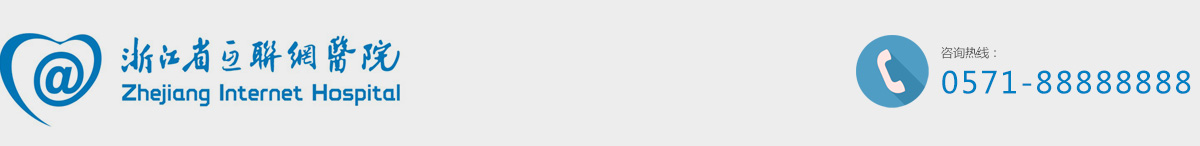
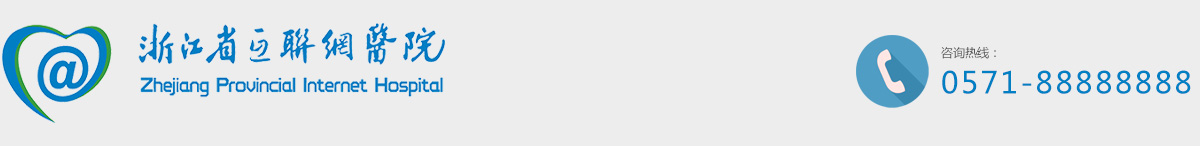
首页适配980px

Changed region(s): [[0.0, 0.1644, 0.37, 0.8493]]

diff --git a/index.html b/index.html
@@ -8,14 +8,13 @@
 	<link rel="shortcut icon" type="image/x-icon" href="theme/default/images/i.ico" media="screen" />
 	<script language="javascript" src="theme/javascript/jquery.js" type="text/javascript"></script>
 	<!--[if lt IE 9]>
-		<script type="text/javascript" src="theme/javascript/h5.js"></script>
 		<script type="text/javascript" src="theme/javascript/css3-media.js"></script>
 	<![endif]-->	
 	<link rel="stylesheet" type="text/css" href="theme/default/css/reset.css">
 	<link rel="stylesheet" type="text/css" href="theme/default/css/style.last.css">	
 </head>
 <body>
-<div id="head"></div>
+<div id="head"><img src='theme/default/images/top.jpg'></div>
  <!-- 大图滚动banner -->
 <div id="banner" class="slideBox">
 	<div id="slider-wrapper" class="index_post ption_r">
@@ -31,8 +30,8 @@
 
 	<!--入口 -->
 	<div class="entrance mt">
-	  <a href="" class="a_l"></a>
-	  <a href="" class="a_r"></a>
+	  <a href="" class="a_l"><img src='theme/default/images/a_l.jpg'></a>
+	  <a href="" class="a_r"><img src='theme/default/images/a_r.jpg'></a>
 	</div>
 
 	<div class="c1 mt">
@@ -161,26 +160,25 @@
 	<!--排班 -->
 	<div class="mt">
 	  <h3>排班表<a href="">查看全部排班</a></h3>
-	  <table class='grid01' cellpadding='0' cellspacing='0'>
-	  	<tr class='head'>
-	  		<td>星期一</td>
-			<td>星期二</td>
-			<td>星期三</td>
-			<td>星期四</td>
-			<td>星期五</td>
-			<td>星期六</td>
+	  <table class="grid01" cellpadding="0" cellspacing="0">
+	  	<tbody><tr class="head">
+	  		<td>1月16日 8:00-12:00</td>
+			<td>9:00-11:00</td>
+			<td>12:00-16:00</td>
+			<td>13:00-15:00</td>
+			<td>17:00-19:00</td>
+			<td>16:00-20:00</td>
 			
 	  	</tr>
 	  	<tr>
-	  		<td>张三<span>1111</span>张三<span>1111</span></td>
-			<td>星期二</td>
-			<td>星期三</td>
-			<td>星期四</td>
-			<td>星期五</td>
-			<td>星期六</td>
-			
+	  		<td>张瑛<span>（中医）</span>费保莹<span>（消化-专家）</span>刘兰英<span>（心理咨询）</span>徐长福<span>（心内）</span>余志红<span>（肿瘤）</span>王一枫<span>（皮肤）</span></td>
+			<td> </td>
+			<td>张瑛<span>（中医）</span>许先荣<span>（呼吸-专家）</span>张滢<span>（记忆减退）</span>盛洋<span>（心内）</span>汪亚群<span>（康复）</span>沈斌<span>（皮肤）</span></td>
+			<td> </td>
+			<td> </td>
+			<td>张瑛<span>（消化）</span>芦丹<span>（康复）</span></td>
 	  	</tr>
-	  </table>
+	  </tbody></table>
 	</div>	
 
 	

diff --git a/theme/default/css/style.last.css b/theme/default/css/style.last.css
@@ -5,7 +5,7 @@ a:hover{color:#1c6f9b}
 body,html{background:#ededed;overflow-x: hidden;}
 .setover{white-space:nowrap;text-overflow: ellipsis;overflow: hidden;}
 .main{width:1200px;margin:0 auto;}
-#head{height:146px;background:url(../images/top.jpg) center 0 no-repeat;}
+#head{height:146px;text-align:center/*background:url(../images/top.jpg) center 0 no-repeat;*/}
 /* banner图片切换 */
 #slider-wrapper{ width: 1980px;  margin:0 auto;margin-left: -990px;left: 50%;position: relative;}
 #slider{position:relative; width:1200px; height:246px;}
@@ -25,8 +25,8 @@ a.nivo-prevNav{left:15px;}
 .clear{clear:both;}
 
 .mt{margin-top:16px;overflow:hidden}
-a.a_l{float:left;width:592px;height:93px;background:url(../images/a_l.jpg) no-repeat;}
-a.a_r{float:right;width:592px;height:93px;background:url(../images/a_r.jpg) no-repeat;}
+a.a_l{float:left;/*width:592px;height:93px;background:url(../images/a_l.jpg) no-repeat;*/}
+a.a_r{float:right;/*width:592px;height:93px;background:url(../images/a_r.jpg) no-repeat;*/}
 /*
 a.a_r:hover,a.a_l:hover{-webkit-animation-name:bounceIn;animation-name:bounceIn;-webkit-animation-duration:.75s;animation-duration:.75s}
 */
@@ -244,4 +244,25 @@ span.pageStatus{padding-right:20px}
 /*=== Custom Slider Styles ===*/
 /*============================*/
 .article_wrap p{line-height:1.5!important;color:#333}
-@media screen and (max-width:1200px){#head,.main {zoom:.8}}
+@media screen and (max-width:1200px){
+/* 980 */
+#head img,.main{width:980px}
+#head{height:120px}
+a.a_r img,a.a_l img{width:482px}
+.c1{zoom:0.817}
+.picMarquee-left .bd ul li .title{width:260px;  }
+.picMarquee-left{ width:940px;padding-right:45px}
+.picMarquee-left .bd ul li{ background:url(../images/bg_line.jpg) 232px center no-repeat; }
+.picMarquee-left .prev,
+.picMarquee-left .next{ position:absolute; left:9px; top: 20px; /* margin-top:-25px; */cursor:pointer; display:block; width:32px; padding-left: 10px; height: 271px; background: url(../images/slider-arrow.png) #fff -174px center no-repeat; filter:alpha(opacity=80); opacity: 1;   }
+.picMarquee-left .next{ left:auto; right:-1px; z-index: 2; background-position: -50px center; }
+.picMarquee-left .prev:hover,
+.picMarquee-left .next:hover{ filter:alpha(opacity=100);opacity:1;  }
+.picMarquee-left .bd{ padding:0px;   width: 1100px; overflow: hidden; margin-left: 35px;}
+.panel{width:450px}
+ul.list li a{width:230px}
+ul.list{width:290px}
+
+
+
+}
